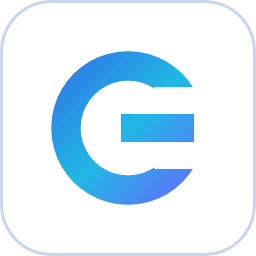
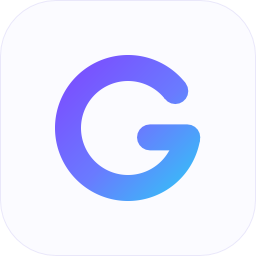
chore: 更新应用图标为描边渐变 G

diff --git a/tools/genicon/main.go b/tools/genicon/main.go
@@ -1,8 +1,8 @@
-// Command genicon 生成 db-g 的应用图标（自绘「G」标）：输出 assets/icon-{256,512}.png。
+// Command genicon 生成 db-g 的应用图标：输出 assets/icon-{256,512}.png。
 //
-// 设计对齐 db-k 母版：**白色圆角底 + 细边**（深色任务栏下对比度最高），字母用品牌渐变
-// （蓝 #2F6FE4 → 青 #22B8E6 → 靛 #6C63FF，左上到右下）。不依赖 SVG 渲染器，用
-// x/image/vector 直接光栅化，任何构建机都能重现。
+// 几何与配色与 assets/icon.svg 一致：浅色圆角底 + 2px 细边，字母 G 为 52px
+// 等宽描边（右上开口、横杠下移），渐变从 #7C4DFF 流到 #38BDF8。位图用
+// x/image/vector 直接光栅化，不依赖外部 SVG 渲染器，任何构建机都能重现。
 package main
 
 import (
@@ -11,6 +11,7 @@ import (
 	"image/draw"
 	"image/png"
 	"log"
+	"math"
 	"os"
 	"path/filepath"
 
@@ -18,12 +19,36 @@ import (
 )
 
 const (
-	colWhite  = 0xFFFFFF
-	colBorder = 0xC8D6EC
-	colGradA  = 0x2F6FE4 // 品牌蓝
-	colGradB  = 0x22B8E6 // 青
-	colGradC  = 0x6C63FF // 靛
+	viewBox   = 512.0
+	tileR     = 112.0
+	borderW   = 2.0
+	iconBg    = 0xFBFBFF
+	iconEdge  = 0xE9E7FA
+	gCx       = 256.0
+	gCy       = 256.0
+	gRadius   = 120.0
+	gStroke   = 52.0
+	gStartDeg = -38.0
+	gEndDeg   = 9.0
+	gBarX     = 300.0
 )
+
+// 渐变与 icon.svg 的 objectBoundingBox 对角线一致；bbox 取路径几何范围。
+var (
+	gradX0 = gCx - gRadius                        // 136
+	gradY0 = gCy - gRadius                        // 136
+	gradX1 = gCx + gRadius*math.Cos(deg(gEndDeg)) // 374.52
+	gradY1 = gCy + gRadius                        // 376（圆弧经过最低点）
+)
+
+var iconStops = []struct {
+	at  float64
+	rgb uint32
+}{
+	{0.00, 0x7C4DFF},
+	{0.55, 0x6A7BFF},
+	{1.00, 0x38BDF8},
+}
 
 func main() {
 	out := "assets"
@@ -55,52 +80,46 @@ func itoa(n int) string {
 // writeIcon 画一张 size×size 的图标。
 func writeIcon(path string, size int) error {
 	img := image.NewRGBA(image.Rect(0, 0, size, size))
-	s := float64(size)
-	radius := s * 0.20
+	k := float64(size) / viewBox
 
-	// 白色圆角底 + 细边（先画边色整块，再内缩画白色，留出 1.5% 的描边）。
-	border := newRaster(size)
-	roundedRect(border, 0, 0, s, s, radius)
-	fill(img, border, hexColor(colBorder))
-	pad := s * 0.012
+	// 圆角底：先整块描边色，再向内缩 2px 画底色，圆角外保持透明。
+	edge := newRaster(size)
+	roundedRect(edge, 0, 0, viewBox*k, viewBox*k, tileR*k)
+	fill(img, edge, hexColor(iconEdge))
 	base := newRaster(size)
-	roundedRect(base, pad, pad, s-pad, s-pad, radius-pad)
-	fill(img, base, hexColor(colWhite))
+	roundedRect(base, borderW*k, borderW*k, (viewBox-borderW)*k, (viewBox-borderW)*k, (tileR-borderW)*k)
+	fill(img, base, hexColor(iconBg))
 
-	// 字母 G 的遮罩：环 - 缺口 + 横杠。
+	// G 字形的描边轮廓：圆环带 + 起点圆头 + 横杠胶囊（胶囊右端同时补出圆角接头）。
 	mask := image.NewAlpha(img.Bounds())
-	cx, cy := s/2, s/2
-	outer, inner := s*0.30, s*0.185
-	ring := newRaster(size)
-	circle(ring, cx, cy, outer, false)
-	circle(ring, cx, cy, inner, true)
-	zapSrc(mask, ring)
+	band := newRaster(size)
+	annulus(band, gCx*k, gCy*k, gRadius*k, gStroke*k, gStartDeg, gEndDeg)
+	zapOver(mask, band)
 
-	// 缺口：先求出缺口覆盖，再从字母遮罩里减掉（Src 会清掉路径外像素，不能直接用）。
-	cut := image.NewAlpha(img.Bounds())
-	gap := newRaster(size)
-	rectPath(gap, cx+inner*0.55, cy-s*0.16, cx+outer*1.15, cy+s*0.16)
-	zapSrc(cut, gap)
-	for i := range mask.Pix {
-		mask.Pix[i] = uint8(uint32(mask.Pix[i]) * (0xFFFF - uint32(cut.Pix[i])*0x101) / 0xFFFF)
-	}
+	startX := gCx + gRadius*math.Cos(deg(gStartDeg))
+	startY := gCy + gRadius*math.Sin(deg(gStartDeg))
+	capR := gStroke / 2 * k
+	cap := newRaster(size)
+	circle(cap, startX*k, startY*k, capR, false)
+	zapOver(mask, cap)
 
+	endX := gCx + gRadius*math.Cos(deg(gEndDeg))
+	endY := gCy + gRadius*math.Sin(deg(gEndDeg))
 	bar := newRaster(size)
-	rectPath(bar, cx-inner*0.15, cy-s*0.055, cx+outer*0.86, cy+s*0.055)
+	roundedRect(bar, (gBarX-gStroke/2)*k, (endY-gStroke/2)*k, (endX+gStroke/2)*k, (endY+gStroke/2)*k, gStroke/2*k)
 	zapOver(mask, bar)
 
-	// 渐变上色：沿字母包围盒对角线，三段色线性插值。
-	grad := linearGradient(colGradA, colGradB, colGradC)
-	x0, y0, x1, y1 := cx-outer, cy-outer, cx+outer, cy+outer
+	// 沿 bbox 对角线铺三段渐变。
 	for y := 0; y < size; y++ {
 		for x := 0; x < size; x++ {
 			a := mask.AlphaAt(x, y).A
 			if a == 0 {
 				continue
 			}
-			t := ((float64(x)-x0)/(x1-x0) + (float64(y)-y0)/(y1-y0)) / 2
-			c := grad(t)
-			blendOver(img, x, y, c, uint32(a)*0x101)
+			gx := (float64(x) + 0.5) / k
+			gy := (float64(y) + 0.5) / k
+			t := ((gx-gradX0)/(gradX1-gradX0) + (gy-gradY0)/(gradY1-gradY0)) / 2
+			blendOver(img, x, y, iconColor(t), uint32(a)*0x101)
 		}
 	}
 
@@ -110,6 +129,51 @@ func writeIcon(path string, size int) error {
 	}
 	defer f.Close()
 	return png.Encode(f, img)
+}
+
+// annulus 以多边形近似一段圆环（a0 到 a1 走长弧，角度递减）。
+func annulus(z *vector.Rasterizer, cx, cy, r, sw, a0, a1 float64) {
+	ro, ri := r+sw/2, r-sw/2
+	end := a1 - 360
+	steps := int(math.Ceil((a0 - end) / 0.25))
+	pt := func(rad, radius float64) (float64, float64) {
+		return cx + radius*math.Cos(deg(rad)), cy + radius*math.Sin(deg(rad))
+	}
+	for i := 0; i <= steps; i++ {
+		a := a0 + (end-a0)*float64(i)/float64(steps)
+		x, y := pt(a, ro)
+		if i == 0 {
+			z.MoveTo(float32(x), float32(y))
+		} else {
+			z.LineTo(float32(x), float32(y))
+		}
+	}
+	for i := steps; i >= 0; i-- {
+		a := a0 + (end-a0)*float64(i)/float64(steps)
+		x, y := pt(a, ri)
+		z.LineTo(float32(x), float32(y))
+	}
+	z.ClosePath()
+}
+
+func deg(d float64) float64 { return d * math.Pi / 180 }
+
+// iconColor 返回渐变在 t 处的颜色（sRGB 线性插值，和 SVG 一致）。
+func iconColor(t float64) color.RGBA {
+	if t < 0 {
+		t = 0
+	}
+	if t > 1 {
+		t = 1
+	}
+	for i := 1; i < len(iconStops); i++ {
+		if t <= iconStops[i].at {
+			a, b := iconStops[i-1], iconStops[i]
+			u := (t - a.at) / (b.at - a.at)
+			return lerpColor(a.rgb, b.rgb, u)
+		}
+	}
+	return hexColor(iconStops[len(iconStops)-1].rgb)
 }
 
 // newRaster 建一个尺寸已知的光栅器（必须先 Reset，否则 Draw 会 panic）。
@@ -123,32 +187,10 @@ func fill(dst draw.Image, z *vector.Rasterizer, c color.RGBA) {
 	z.Draw(dst, dst.Bounds(), image.NewUniform(c), image.Point{})
 }
 
-// zapSrc 用 Src 覆盖遮罩（要求遮罩原本为空，否则路径外像素也会被清零）。
-func zapSrc(mask *image.Alpha, z *vector.Rasterizer) {
-	z.DrawOp = draw.Src
-	z.Draw(mask, mask.Bounds(), image.Opaque, image.Point{})
-}
-
-// zapOver 把形状以 Over 画到遮罩上（路径外像素保持不变）。
+// zapOver 把形状以 Over 画到遮罩上（用于把多个形状并成同一字形）。
 func zapOver(mask *image.Alpha, z *vector.Rasterizer) {
 	z.DrawOp = draw.Over
 	z.Draw(mask, mask.Bounds(), image.Opaque, image.Point{})
-}
-
-// linearGradient 返回 t∈[0,1] 的三段线性渐变（A→B→C）。
-func linearGradient(a, b, c uint32) func(t float64) color.RGBA {
-	return func(t float64) color.RGBA {
-		if t < 0 {
-			t = 0
-		}
-		if t > 1 {
-			t = 1
-		}
-		if t < 0.5 {
-			return lerpColor(a, b, t*2)
-		}
-		return lerpColor(b, c, (t-0.5)*2)
-	}
 }
 
 func lerpColor(a, b uint32, t float64) color.RGBA {
@@ -173,14 +215,6 @@ func blendOver(img *image.RGBA, x, y int, c color.RGBA, alpha uint32) {
 	img.Pix[i+3] = 255
 }
 
-func rectPath(z *vector.Rasterizer, x0, y0, x1, y1 float64) {
-	z.MoveTo(float32(x0), float32(y0))
-	z.LineTo(float32(x1), float32(y0))
-	z.LineTo(float32(x1), float32(y1))
-	z.LineTo(float32(x0), float32(y1))
-	z.ClosePath()
-}
-
 // roundedRect 画圆角矩形（四角三次贝塞尔）。
 func roundedRect(z *vector.Rasterizer, x0, y0, x1, y1, r float64) {
 	k := 0.5522847498 * r
@@ -196,7 +230,7 @@ func roundedRect(z *vector.Rasterizer, x0, y0, x1, y1, r float64) {
 	z.ClosePath()
 }
 
-// circle 画圆；ccw=true 时反向（用于镂空）。
+// circle 画圆。
 func circle(z *vector.Rasterizer, cx, cy, r float64, ccw bool) {
 	k := 0.5522847498 * r
 	if !ccw {

diff --git a/main_test.go b/main_test.go
@@ -9,7 +9,7 @@ import (
 	"db-g/engine"
 )
 
-// TestAppIconPixels 验证自绘图标真的画出来了：品牌蓝底 + 白色 G（环与横杠），中心是镂空。
+// TestAppIconPixels 验证图标真的画出来了：浅色圆角底 + 紫→蓝渐变的描边 G，中心镂空。
 func TestAppIconPixels(t *testing.T) {
 	img, err := png.Decode(bytes.NewReader(appIconPNG))
 	if err != nil {
@@ -23,30 +23,32 @@ func TestAppIconPixels(t *testing.T) {
 		r, g, bl, a := img.At(x, y).RGBA()
 		return uint8(r >> 8), uint8(g >> 8), uint8(bl >> 8), uint8(a >> 8)
 	}
-	// 圆角外是透明的，取上边缘内侧验证白色底。
-	r, g, bl, a := at(128, 20)
-	if a < 200 || r < 240 || g < 240 || bl < 240 {
-		t.Fatalf("background must be white, got %d,%d,%d a=%d", r, g, bl, a)
+	// 圆角外透明，上边缘内侧是浅色底（#FBFBFF）。
+	if _, _, _, a := at(0, 0); a > 60 {
+		t.Fatalf("corner must be transparent, got a=%d", a)
 	}
-	// 字母 G 用品牌渐变：上环偏蓝、下环偏靛，二者不同且都不是白色。
-	tr, tg, tb, _ := at(128, 70)
-	br, bg2, bb, _ := at(128, 186)
-	if tr > 140 || tb < 170 {
-		t.Fatalf("top of G must be blue-ish, got %d,%d,%d", tr, tg, tb)
+	if r, g, bl, a := at(128, 20); a < 200 || r < 245 || g < 245 || bl < 250 {
+		t.Fatalf("background must be light, got %d,%d,%d a=%d", r, g, bl, a)
 	}
-	if br > 160 || bb < 200 {
-		t.Fatalf("bottom of G must be indigo-ish, got %d,%d,%d", br, bg2, bb)
+	// 渐变方向：上环偏紫、下环偏蓝青、横杠偏蓝，且不是纯色。
+	tr, tg, tb, _ := at(128, 68)
+	br, bg2, bb, _ := at(128, 188)
+	mr, mg, mb, _ := at(170, 137)
+	if tr < 90 || tr > 140 || tg > 130 || tb < 245 {
+		t.Fatalf("top of G must be purple, got %d,%d,%d", tr, tg, tb)
+	}
+	if br > 110 || bg2 < 125 || bg2 > 185 || bb < 240 {
+		t.Fatalf("bottom of G must be blue-cyan, got %d,%d,%d", br, bg2, bb)
+	}
+	if mr < 55 || mr > 120 || mg < 115 || mg > 180 || mb < 240 {
+		t.Fatalf("G bar must be blue, got %d,%d,%d", mr, mg, mb)
 	}
 	if tr == br && tg == bg2 && tb == bb {
 		t.Fatal("G must be a gradient, not a flat color")
 	}
-	// 环内是白底
-	if r, g, bl, _ := at(128, 100); r < 240 || g < 240 || bl < 240 {
-		t.Fatalf("hole must be white, got %d,%d,%d", r, g, bl)
-	}
-	// 横杠是渐变颜色（非白）
-	if r, g, bl, _ := at(170, 128); r > 220 && g > 220 && bl > 220 {
-		t.Fatalf("G bar must be colored, got %d,%d,%d", r, g, bl)
+	// 环内是浅色底
+	if r, g, bl, _ := at(128, 100); r < 245 || g < 245 || bl < 250 {
+		t.Fatalf("hole must be light, got %d,%d,%d", r, g, bl)
 	}
 	if _, err := os.Stat("assets/icon.svg"); err != nil {
 		t.Fatalf("svg source missing: %v", err)
